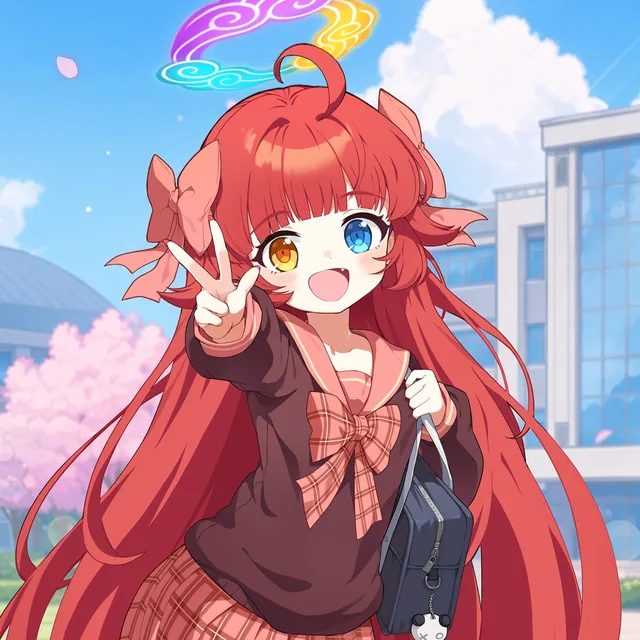
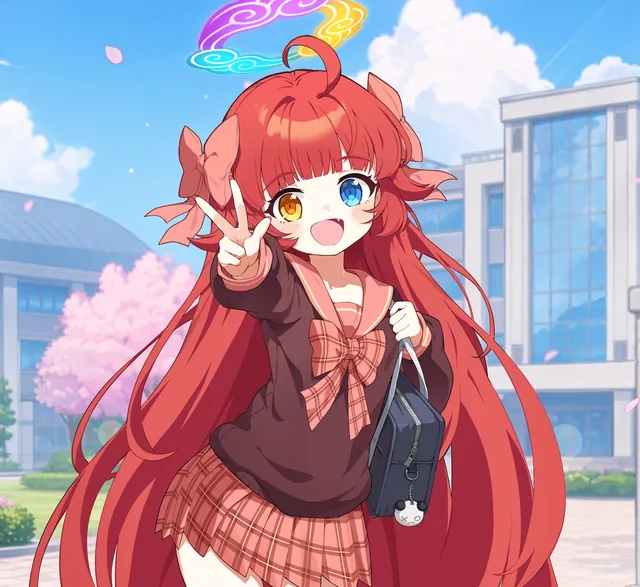
닉네임으로 불러온 코디 창 카링 그림을 원본 아래 끝까지 — 치마 · 다리까지 보이게

diff --git a/src/components/shop/preset/lookPick.module.css b/src/components/shop/preset/lookPick.module.css
@@ -6,8 +6,8 @@
 .cards { flex: 1 1 0; min-width: 0; min-height: 0; overflow: hidden auto; overscroll-behavior: contain; padding: 8px 0; border-right: 1px solid light-dark(#f0e9e1, #42454d); }
 .side { flex: 0 0 300px; min-width: 0; min-height: 0; overflow: hidden auto; overscroll-behavior: contain; padding: 0 8px; display: flex; flex-direction: column; }
 @media (hover: none), (pointer: coarse) { .cards { padding: 8px; } .side { padding: 0 16px; } }
-/* 설정 줄 아래 남는 자리를 채우는 일러스트 — 남은 높이만 차지(flex 1 1 0), 얼굴이 늘 보이게 위쪽에 맞춘다. 경계는 카드와 같은 1px 테두리 */
-.art { flex: 1 1 0; min-height: 0; margin: 0 0 8px; border: 1px solid light-dark(#f0e9e1, #42454d); border-radius: 8px; background: light-dark(#f7f2ec, #3b3d45) center 22% / cover no-repeat; }
+/* 설정 줄 아래 남는 자리를 채우는 일러스트 — 남은 높이만 차지(flex 1 1 0), 그림을 칸 비율(약 1.09)로 잘라 할로부터 다리까지 다 보이고, 칸이 낮아지면 위아래를 조금씩 덜어 낸다. 경계는 카드와 같은 1px 테두리 */
+.art { flex: 1 1 0; min-height: 0; margin: 0 0 8px; border: 1px solid light-dark(#f0e9e1, #42454d); border-radius: 8px; background: light-dark(#f7f2ec, #3b3d45) center 60% / cover no-repeat; }
 @media (hover: none), (pointer: coarse) { .art { display: none; } }
 
 .bodyM { flex: 1 1 auto; min-height: 0; overflow: hidden auto; overscroll-behavior: contain; display: flex; flex-direction: column; }

diff --git a/ARCHITECTURE.md b/ARCHITECTURE.md
@@ -366,7 +366,7 @@ scripts/merge-dev-to-main.sh
 - **이스터에그**(`lib/easterEgg`): 코디 탭의 아이템 검색과 AI 코디 검색에 `못바`·`못생긴바인더` 를 정확히(앞뒤 공백만 무시) 넣으면 정해진 아이템 11개만 나온다. AI 검색은 이때 서버에 묻지 않는다. 부위 바·성별 필터는 평소처럼 그 안에서 걸러 낸다. id 는 목록의 대표 id 로 적는다(헤어·성형 = 기본 색, 같은 이름 · 같은 라벨 장비 = 가장 낮은 id) — 코디 탭 목록은 묶인 대표만 갖고 있어서다. 장비를 이름 + 라벨로 묶는 것은 스페셜 라벨과 일반 아이템이 이름이 같아도 그림이 다른 다른 아이템이라서다(양머리 수건, 여기있어! 손전등 — `shopData.foldList`, 사용자 제보).
 - **넥슨 데이터 출처 표기**(넥슨 Open API 이용약관 제6조 ④ — 결과 데이터에 'NEXON Open API'를 이용한 것임을 명시. 넥슨이 직접 요청했다): 문구는 넥슨 안내 그대로 `Data based on NEXON Open API`(`lib/nexonLook` 의 `NEXON_CREDIT`). 넥슨 데이터를 보여 주는 화면마다 한 줄(닉네임으로 불러온 코디를 고르는 창 머리의 부제)이고, 앱 어디서나 닿는 도움 및 건의함 창 머리의 부제에도 둔다. 넥슨 데이터를 쓰는 화면을 새로 만들면 같은 상수로 한 줄을 넣는다.
 - **닉네임 불러오기**(`api/nick`): 넥슨 `item-equipment` 에서 `item_shape_name || item_name` 으로 읽는다. 왜: 모루로 덮은 외형은 `item_shape_name` 에 있다.
-- **닉네임으로 불러온 코디 고르기**(서피스 `look`, `preset/LookPickBody`): 다른 창과 같은 틀 · 같은 크기다(머리 = 닉네임 + 출처 표기, 발 = [닫기]). 짜임은 코디 프로필 창과 같다 — PC · 절반 · 태블릿은 왼쪽 = 그 벌의 치장 프리셋 카드(4열), 오른쪽 = 설정 줄(300px, 줄은 코디 프로필의 라벨 + 스위치 줄). 모바일은 본문 하나가 스크롤되고 설정 줄이 위, 카드(3열 — 프리셋 탭 · 목록 카드와 같은 열 수, 2열은 카드가 너무 컸다)가 아래다. 왜: 두 벌의 프리셋 수가 달라 카드 줄 수가 바뀌어도 설정 줄이 밀리지 않게. 카드는 공유받은 코디 창과 같은 부품(`plaza/PlazaTakeBody` 의 `PickCard` + `SnapThumb` — 명찰은 닉네임, 명찰 반지가 없으면 기본 명찰. 캐릭터 비율은 프리셋 탭 카드와 같은 `PRESET_FRACTION`(_M) — 위에 칭호 자리가 남는다), 게임에서 입고 있는 프리셋에 '착용 중'(그림 칸 왼쪽 아래 — 위는 켠 칭호 자리). 누르면 그 한 벌을 지금 프리셋에 넣고 닫는다(`chooseLook`). 설정 줄: 두 벌(제로 알파/베타, 엔젤릭버스터 일반/드레스업 — 이름은 `lib/nexonLook`)이면 맨 위에 [코디] 고르기(`Seg`, 처음은 두 번째 벌), 그 아래 칭호 · 명찰 · 훈장 · 말풍선 스위치(모바일은 두 줄 두 칸). 스위치는 켠 장식만 가져오고(기본은 꺼짐) 고른 값은 늘 유지한다(`UiPref.nickTake`). 카드도 꺼 둔 장식을 빼고 그린다(`SnapThumb deco`). 그 벌의 어느 프리셋에도 없는 장식은 켤 수 없다(코디 프로필의 칭호 · 훈장과 같다). PC 설정 칸 아래 남는 자리는 일러스트(카링 — 사용자가 준 그림을 자른 `assets/karing.webp`, 51KB)가 남은 높이만큼 채운다(사용자 지시 — 비어 허전했다. 터치 기기 · 모바일은 없다).
+- **닉네임으로 불러온 코디 고르기**(서피스 `look`, `preset/LookPickBody`): 다른 창과 같은 틀 · 같은 크기다(머리 = 닉네임 + 출처 표기, 발 = [닫기]). 짜임은 코디 프로필 창과 같다 — PC · 절반 · 태블릿은 왼쪽 = 그 벌의 치장 프리셋 카드(4열), 오른쪽 = 설정 줄(300px, 줄은 코디 프로필의 라벨 + 스위치 줄). 모바일은 본문 하나가 스크롤되고 설정 줄이 위, 카드(3열 — 프리셋 탭 · 목록 카드와 같은 열 수, 2열은 카드가 너무 컸다)가 아래다. 왜: 두 벌의 프리셋 수가 달라 카드 줄 수가 바뀌어도 설정 줄이 밀리지 않게. 카드는 공유받은 코디 창과 같은 부품(`plaza/PlazaTakeBody` 의 `PickCard` + `SnapThumb` — 명찰은 닉네임, 명찰 반지가 없으면 기본 명찰. 캐릭터 비율은 프리셋 탭 카드와 같은 `PRESET_FRACTION`(_M) — 위에 칭호 자리가 남는다), 게임에서 입고 있는 프리셋에 '착용 중'(그림 칸 왼쪽 아래 — 위는 켠 칭호 자리). 누르면 그 한 벌을 지금 프리셋에 넣고 닫는다(`chooseLook`). 설정 줄: 두 벌(제로 알파/베타, 엔젤릭버스터 일반/드레스업 — 이름은 `lib/nexonLook`)이면 맨 위에 [코디] 고르기(`Seg`, 처음은 두 번째 벌), 그 아래 칭호 · 명찰 · 훈장 · 말풍선 스위치(모바일은 두 줄 두 칸). 스위치는 켠 장식만 가져오고(기본은 꺼짐) 고른 값은 늘 유지한다(`UiPref.nickTake`). 카드도 꺼 둔 장식을 빼고 그린다(`SnapThumb deco`). 그 벌의 어느 프리셋에도 없는 장식은 켤 수 없다(코디 프로필의 칭호 · 훈장과 같다). PC 설정 칸 아래 남는 자리는 일러스트(카링 — 사용자가 준 그림을 자른 `assets/karing.webp` — 원본 위아래 끝까지(할로부터 다리까지), 49KB)가 남은 높이만큼 채운다(사용자 지시 — 비어 허전했다. 터치 기기 · 모바일은 없다).
 
 - **코디 평가는 핑크빈이 무대에 나와서 한다**(`preview/PinkbeanRate`). 평가를 누르면 핑크빈이 무대 왼쪽에서 걸어 들어와 답을 기다리는 동안 **캐릭터 둘레를 이리저리 다닌다**(오래 걸릴수록 더 많이). 멈춰 서서 한 마디 하고 다른 자리로 가서 다음 마디를 하며, 말은 핑크빈 머리 위에 뜨고 그 말이 가리키는 부위의 착용 아이템을 말 앞에 그린다. 다 말하면 좋아하는 동작(하트)을 하고 가까운 쪽으로 걸어 나간다. 왜: 말풍선만 캐릭터 둘레에 흩어 놓으면 누가 무엇을 보고 하는 말인지 보이지 않는다(사용자 지적).
   - **서는 자리는 정해 두지 않는다.** 닿을 수 있는 폭 안에서 그때그때 고르고 캐릭터와 조금 겹쳐 서도 된다(정해진 두 자리만 오가면 기계처럼 보인다는 지적). 말할 때만 얼굴이 가려지지 않을 만큼 떨어진다.
